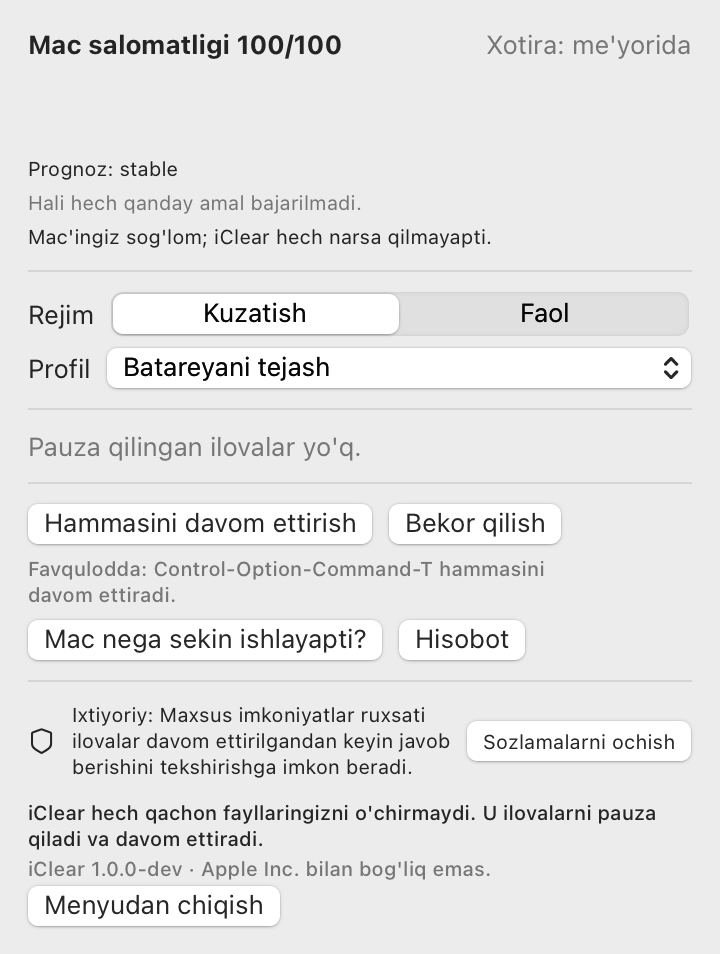
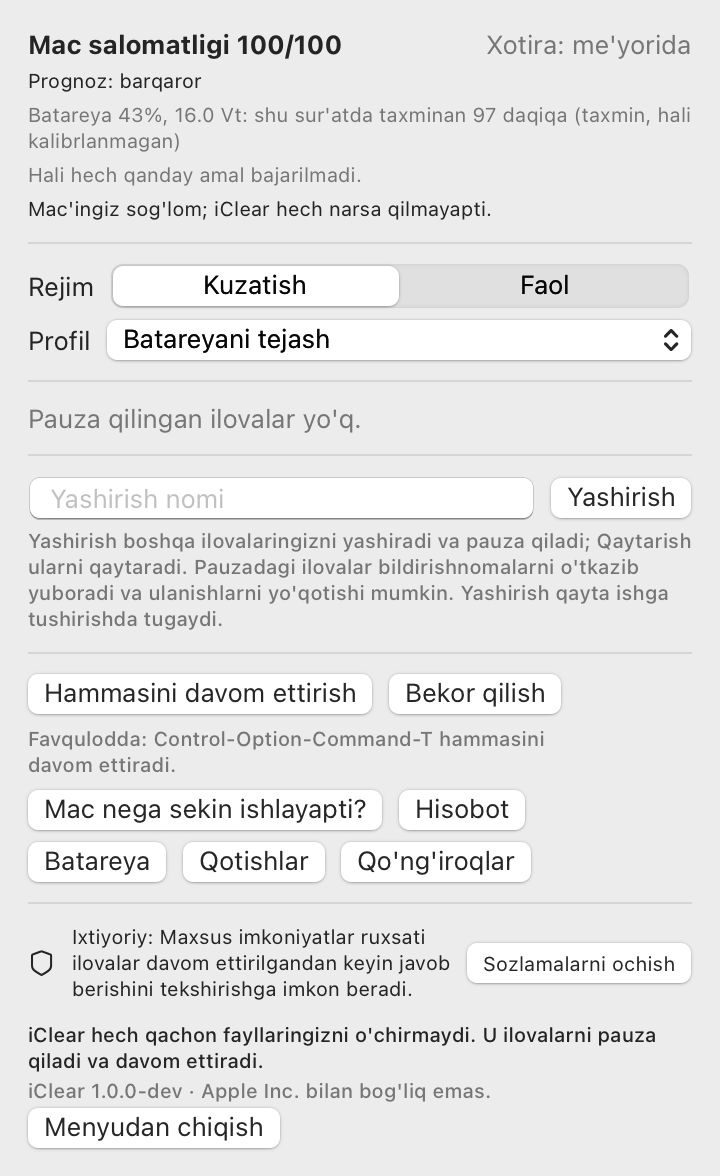
Add stash, battery, stalls and calls to the menu
Stash and pop from the menu, an optional stash hotkey pair, a localized
battery line from structured data, and translated forecast phrases in
the Uzbek menu.

diff --git a/Sources/iClearMenu/App.swift b/Sources/iClearMenu/App.swift
@@ -54,6 +54,8 @@ struct MenuView: View {
                 controls(s)
                 Divider()
                 frozen(s)
+                Divider()
+                stashSection
             } else {
                 Text(localized("daemon.notRunning")).font(.headline)
                 Button(localized("daemon.start")) { model.startDaemon() }
@@ -86,7 +88,7 @@ struct MenuView: View {
                 Text(localized("pressure." + s.pressure)).foregroundStyle(s.pressure == "normal" ? Color.secondary : .orange)
             }
             .accessibilityElement(children: .combine)
-            if !s.recentPressure.isEmpty {
+            if s.recentSwapMB.count >= 2 {
                 Chart(Array(s.recentSwapMB.enumerated()), id: \.offset) { i, mb in
                     LineMark(x: .value("t", i), y: .value("MB", mb))
                 }
@@ -95,7 +97,10 @@ struct MenuView: View {
                 .frame(height: 40)
                 .accessibilityLabel(Text(String(format: localized("a11y.swap"), Int(s.swapUsedMB))))
             }
-            Text(String(format: localized("forecast"), s.forecast)).font(.caption)
+            Text(String(format: localized("forecast"), localizedForecast(s.forecast))).font(.caption)
+            if let b = model.batteryLine {
+                Text(b).font(.caption).foregroundStyle(.secondary).lineLimit(2).fixedSize(horizontal: false, vertical: true)
+            }
             if !s.focusSafe.isEmpty {
                 Text(String(format: localized("focusSafe"), s.focusSafe.joined(separator: ", "))).font(.caption).foregroundStyle(.blue)
             }
@@ -141,6 +146,36 @@ struct MenuView: View {
         }
     }
 
+    /// The daemon reports the forecast in English; the fixed phrases are translated here.
+    func localizedForecast(_ f: String) -> String {
+        switch f {
+        case "stable": return localized("forecast.stable")
+        case "no trend yet": return localized("forecast.noTrend")
+        default: return f
+        }
+    }
+
+    var stashSection: some View {
+        VStack(alignment: .leading, spacing: 4) {
+            HStack {
+                TextField(localized("stash.name"), text: $model.stashName).textFieldStyle(.roundedBorder)
+                    .onSubmit { model.stash(model.stashName) }
+                Button(localized("stash")) { model.stash(model.stashName) }
+                    .accessibilityLabel(Text(localized("a11y.stash")))
+            }
+            ForEach(model.stashes, id: \.name) { st in
+                HStack {
+                    Image(systemName: "tray.full").accessibilityHidden(true)
+                    Text(String(format: localized("stash.row"), st.name, st.apps.filter { !$0.popped }.count)).lineLimit(1)
+                    Spacer()
+                    Button(localized("pop")) { model.pop(st.name) }
+                        .accessibilityLabel(Text(String(format: localized("a11y.pop"), st.name)))
+                }
+            }
+            Text(localized("stash.note")).font(.caption2).foregroundStyle(.secondary).fixedSize(horizontal: false, vertical: true)
+        }
+    }
+
     var actions: some View {
         VStack(alignment: .leading, spacing: 6) {
             HStack {
@@ -151,6 +186,11 @@ struct MenuView: View {
             HStack {
                 Button(localized("why")) { model.show("why", title: localized("why")) }
                 Button(localized("digest")) { model.show("stats", title: localized("digest")) }
+            }
+            HStack {
+                Button(localized("battery")) { model.show("battery", title: localized("battery")) }
+                Button(localized("stalls")) { model.show("beachball", title: localized("stalls")) }
+                Button(localized("calls")) { model.show("shield", title: localized("calls")) }
             }
         }
     }

diff --git a/Sources/iClearMenu/Model.swift b/Sources/iClearMenu/Model.swift
@@ -1,4 +1,5 @@
 import AppKit
+import Carbon.HIToolbox
 import Foundation
 import ICCore
 import ICSystem
@@ -15,11 +16,14 @@ final class Model: ObservableObject {
     @Published var detailTitle = ""
     @Published var message: String?
     @Published var accessibility = false
+    @Published var stashes: [StashRecord] = []
+    @Published var batteryLine: String?
+    @Published var stashName = ""
 
     let paths = Paths()
     private var timer: Timer?
     private var lastEvent = Date().timeIntervalSince1970
-    private var hotKey: HotKey?
+    private var hotKeys: [HotKey] = []
 
     /// Inside iClear.app the daemon lives in Contents/Helpers; in a build folder, next to us.
     var daemonPath: String {
@@ -33,7 +37,12 @@ final class Model: ObservableObject {
         timer = Timer.scheduledTimer(withTimeInterval: 5, repeats: true) { [weak self] _ in
             Task { @MainActor in self?.refresh() }
         }
-        hotKey = HotKey { [weak self] in Task { @MainActor in self?.thawAll() } }
+        hotKeys = [HotKey(key: kVK_ANSI_T, id: 1) { [weak self] in Task { @MainActor in self?.thawAll() } }]
+        let config = (try? Data(contentsOf: paths.config)).flatMap { try? Config.load(json: $0).0 }
+        if config?.stash.hotkeys == true {
+            hotKeys.append(HotKey(key: kVK_ANSI_S, id: 2) { [weak self] in Task { @MainActor in self?.stash("quick") } })
+            hotKeys.append(HotKey(key: kVK_ANSI_P, id: 3) { [weak self] in Task { @MainActor in self?.pop("quick") } })
+        }
         // Notifications need a real app bundle.
         if Bundle.main.bundleIdentifier != nil {
             UNUserNotificationCenter.current().requestAuthorization(options: [.alert]) { _, _ in }
@@ -51,6 +60,13 @@ final class Model: ObservableObject {
             return
         }
         status = try? JSONDecoder().decode(Status.self, from: d)
+        stashes = send("stashes")?.data.flatMap { try? JSONDecoder().decode([StashRecord].self, from: Data($0.utf8)) } ?? []
+        if let d = send("battery")?.data, let b = try? JSONDecoder().decode(BatterySummary.self, from: Data(d.utf8)), let m = b.minutes {
+            let label = localized(!b.reliable ? "battery.unreliable" : b.calibrated ? "battery.estimate" : "battery.uncalibrated")
+            batteryLine = String(format: localized("battery.line"), Int(b.percent), b.watts, Int(m)) + " " + label
+        } else {
+            batteryLine = nil
+        }
         if let e = send("events", value: "\(lastEvent)"), let data = e.data?.data(using: .utf8),
             let events = try? JSONDecoder().decode([DaemonEvent].self, from: data)
         {
@@ -84,6 +100,12 @@ final class Model: ObservableObject {
     }
 
     func thaw(_ id: String) { run("thaw", app: id) }
+    func stash(_ name: String) {
+        let n = name.trimmingCharacters(in: .whitespaces)
+        run("stash", app: n.isEmpty ? "quick" : n, value: "{}")
+        stashName = ""
+    }
+    func pop(_ name: String) { run("pop", app: name) }
     func neverFreeze(_ id: String) { run("deny", app: id) }
     func undo() { run("undo") }
     func setMode(_ m: Mode) { run("mode", value: m.rawValue) }

diff --git a/Sources/iClearMenu/HotKey.swift b/Sources/iClearMenu/HotKey.swift
@@ -1,25 +1,33 @@
 import Carbon.HIToolbox
 
-/// Global emergency hotkey (Control-Option-Command-T): thaw everything.
-/// Carbon hotkeys need no Accessibility or Input Monitoring permission.
+/// A global hotkey through Carbon `RegisterEventHotKey`, which needs no Accessibility or
+/// Input Monitoring permission. Control-Option-Command-T (resume everything) is always
+/// on; the stash hotkeys only when enabled in the config.
 final class HotKey {
     private var ref: EventHotKeyRef?
     private var handler: EventHandlerRef?
+    private let id: UInt32
     private let action: () -> Void
 
-    init(action: @escaping () -> Void) {
+    init(key: Int, id: UInt32, action: @escaping () -> Void) {
+        self.id = id
         self.action = action
         var spec = EventTypeSpec(eventClass: OSType(kEventClassKeyboard), eventKind: UInt32(kEventHotKeyPressed))
         let me = Unmanaged.passUnretained(self).toOpaque()
         InstallEventHandler(
             GetApplicationEventTarget(),
-            { _, _, ctx in
-                Unmanaged<HotKey>.fromOpaque(ctx!).takeUnretainedValue().action()
+            { _, event, ctx in
+                // Every registered hotkey reaches every handler: act only on our own ID.
+                var hk = EventHotKeyID()
+                GetEventParameter(
+                    event, EventParamName(kEventParamDirectObject), EventParamType(typeEventHotKeyID), nil,
+                    MemoryLayout<EventHotKeyID>.size, nil, &hk)
+                let me = Unmanaged<HotKey>.fromOpaque(ctx!).takeUnretainedValue()
+                if hk.id == me.id { me.action() }
                 return noErr
             }, 1, &spec, me, &handler)
-        let id = EventHotKeyID(signature: OSType(0x6963_6C6E), id: 1)  // "icln"
         RegisterEventHotKey(
-            UInt32(kVK_ANSI_T), UInt32(controlKey | optionKey | cmdKey), id,
+            UInt32(key), UInt32(controlKey | optionKey | cmdKey), EventHotKeyID(signature: OSType(0x6963_6C6E), id: id),  // "icln"
             GetApplicationEventTarget(), 0, &ref)
     }
 

diff --git a/Sources/ICSystem/FeatureOps.swift b/Sources/ICSystem/FeatureOps.swift
@@ -39,6 +39,16 @@ public final class JitterProbe {
     deinit { timer.cancel() }
 }
 
+/// Battery numbers for the menu, which formats them in the user's language.
+public struct BatterySummary: Codable, Sendable {
+    public var percent: Double
+    public var remainingWh: Double
+    public var watts: Double
+    public var minutes: Double?
+    public var reliable: Bool
+    public var calibrated: Bool
+}
+
 extension Daemon {
     var batteryURL: URL { paths.base.appendingPathComponent("battery.json") }
     var stallsURL: URL { paths.base.appendingPathComponent("stalls.jsonl") }
@@ -149,7 +159,11 @@ extension Daemon {
                 : String(
                     format: "Receipts: %d checked, median error %@.", closed.count,
                     battery.medianError.map { String(format: "%.0f%%", $0 * 100) } ?? "needs 3"))
-        return Response(ok: true, text: l.joined(separator: "\n"), data: encode(appPowers))
+        let summary = BatterySummary(
+            percent: r.percent, remainingWh: r.remainingWh, watts: w,
+            minutes: BatteryPlanner.minutes(remainingWh: r.remainingWh, watts: w),
+            reliable: battery.reliable, calibrated: cal.fit.n >= 3)
+        return Response(ok: true, text: l.joined(separator: "\n"), data: encode(summary))
     }
 
     public func setBatteryTarget(_ value: String) -> Response {
